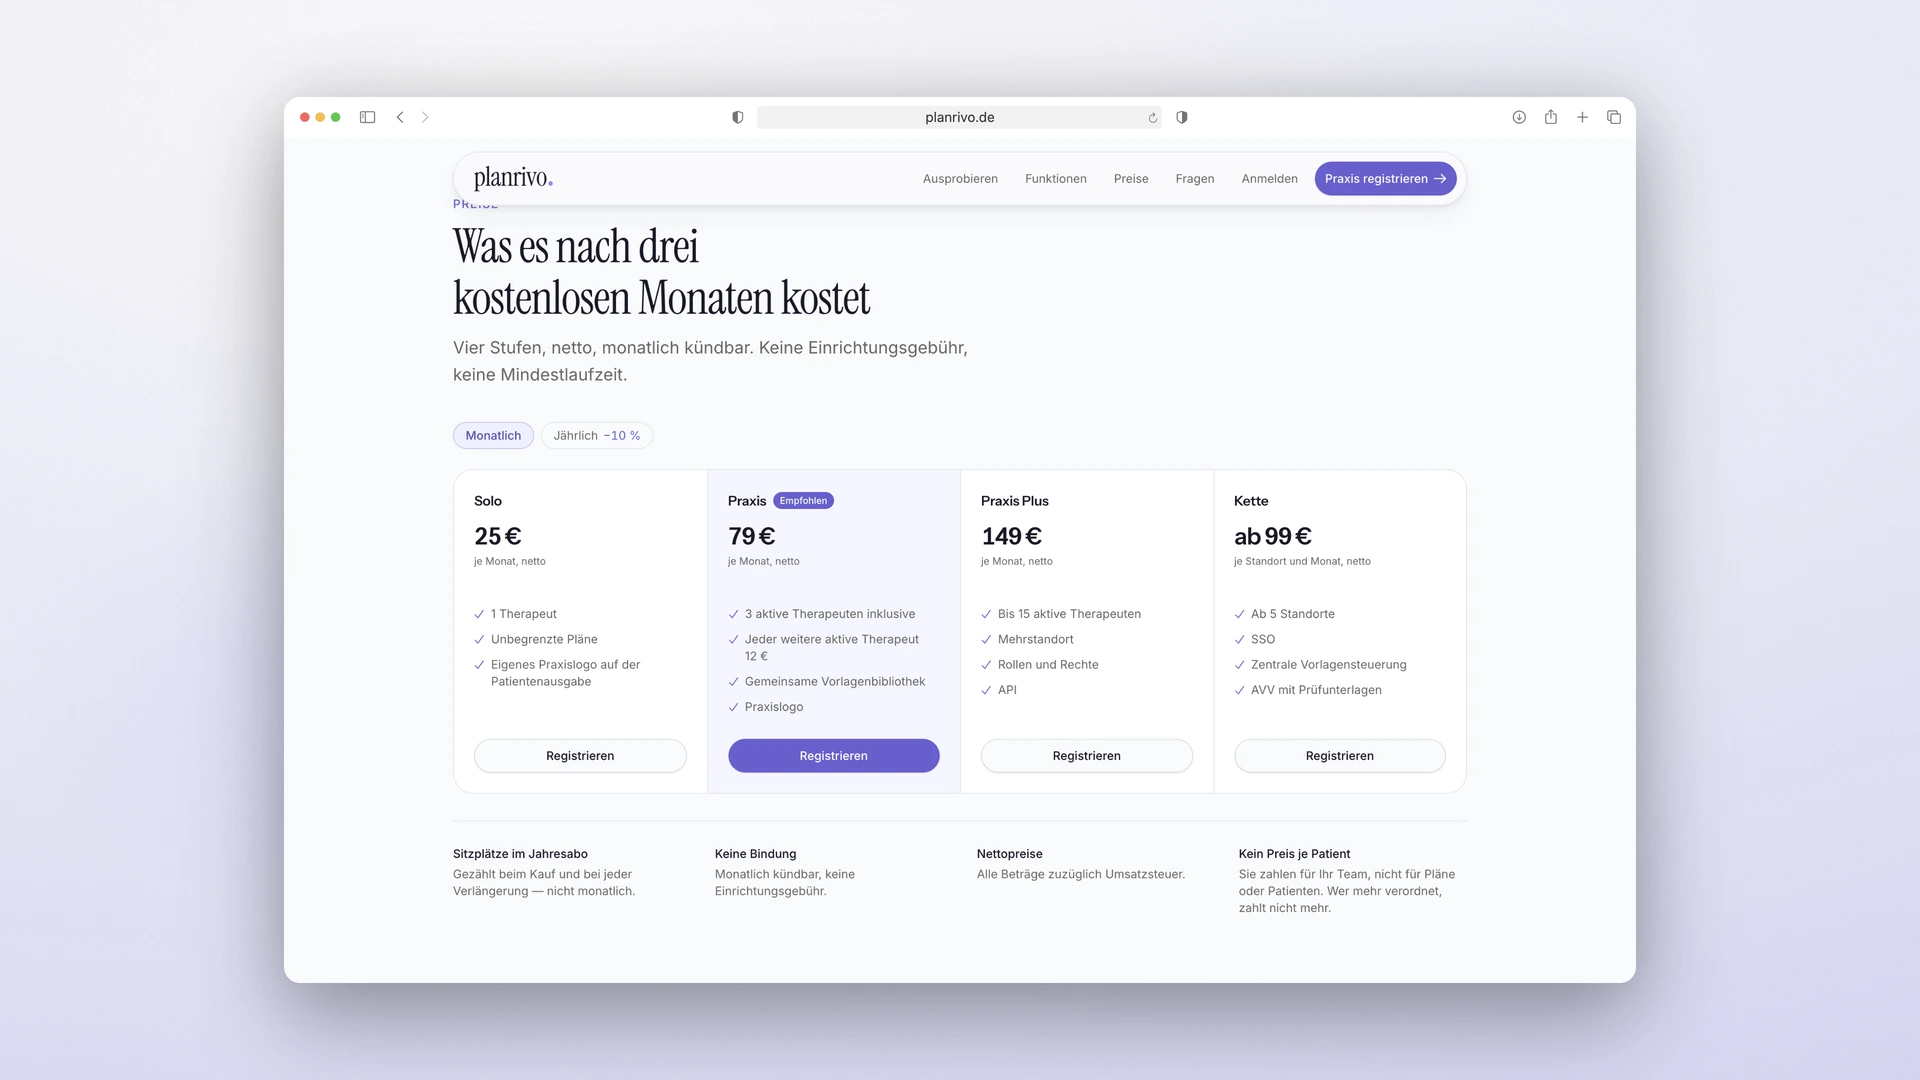
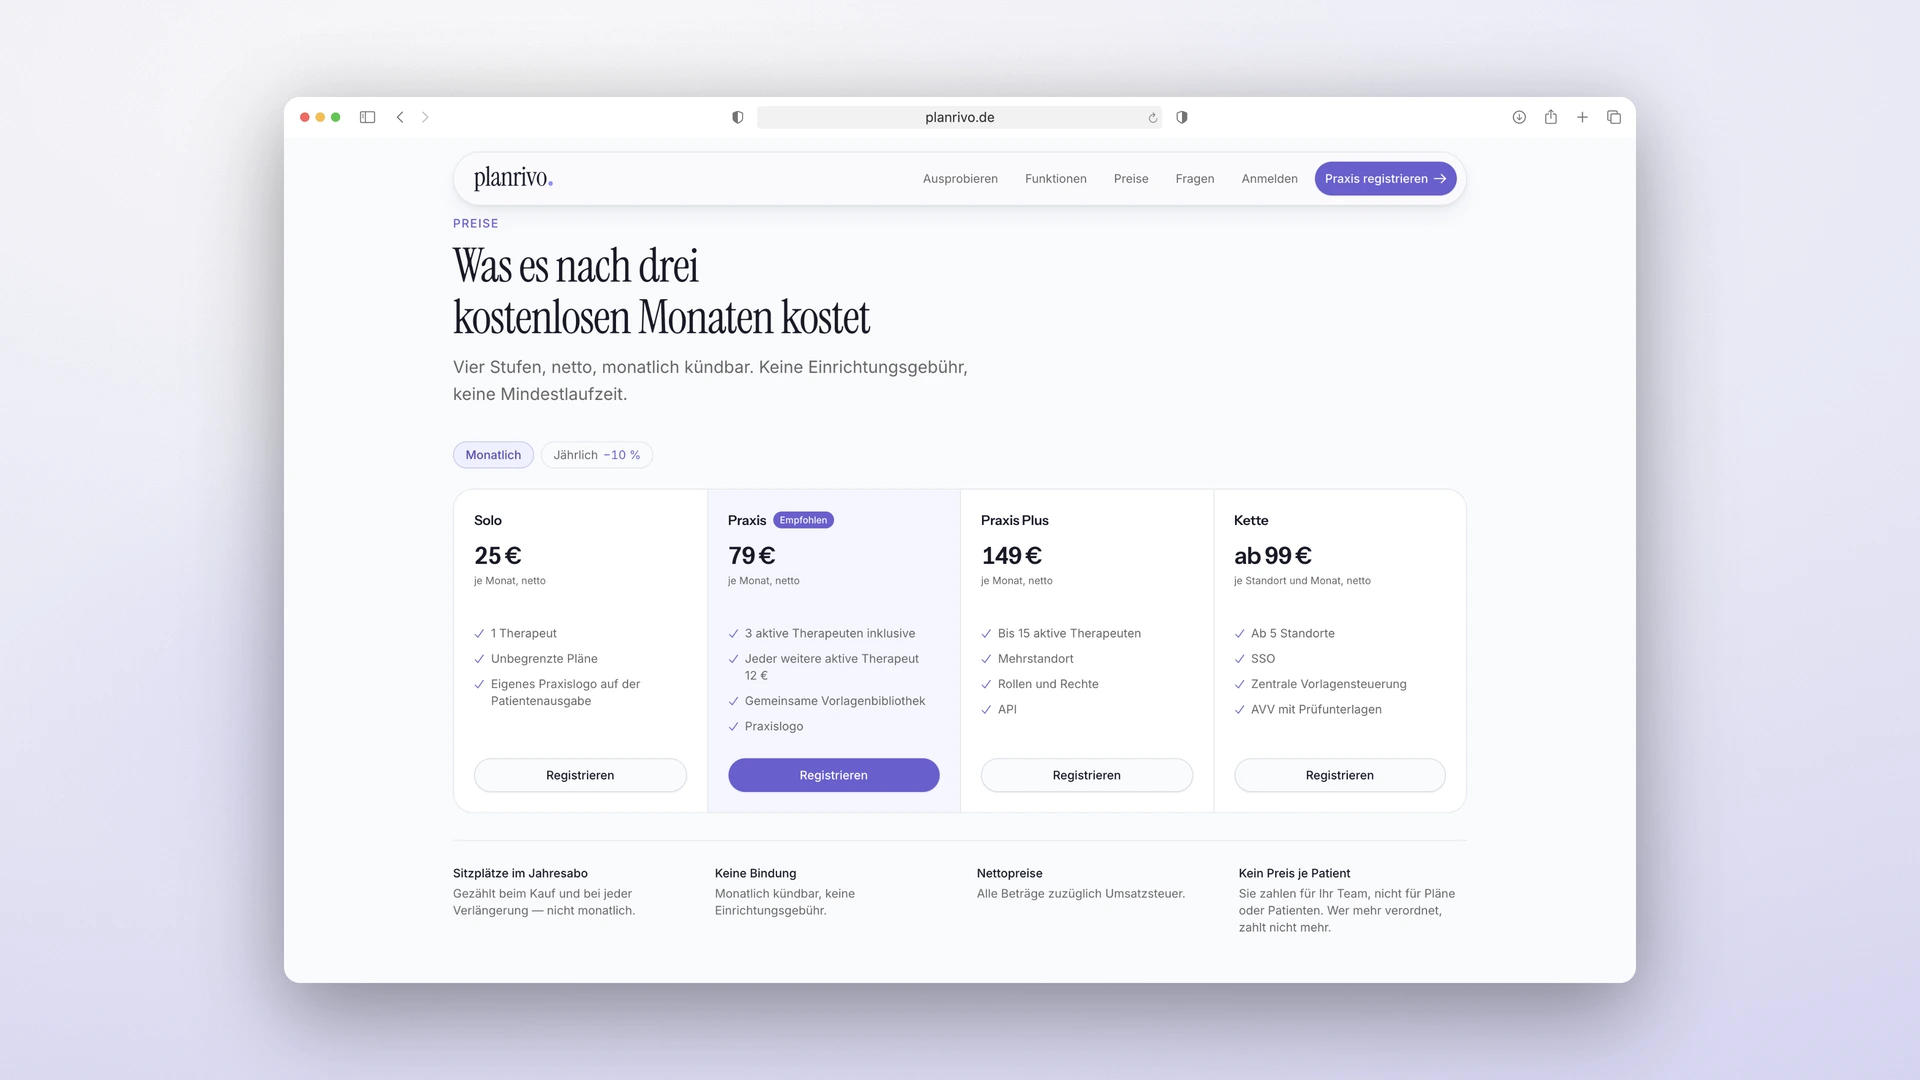
add planrivo features bento and recapture pricing

diff --git a/resources/content/projects/en/planrivo.md b/resources/content/projects/en/planrivo.md
@@ -94,6 +94,10 @@ media:
       alt: 'planrivo - Desktop Print View of a Plan as a Branded A4 Sheet with QR Code'
     - type: image
       aspectRatio: '16/9'
+      src: /img/portfolio/planrivo/planrivo_landscape_17.webp
+      alt: 'planrivo - Desktop Features Bento: Plan in Under a Minute, Muscle Map Filter, Revocable Access and Practice Templates'
+    - type: image
+      aspectRatio: '16/9'
       src: /img/portfolio/planrivo/planrivo_landscape_15.webp
       alt: 'planrivo - Desktop Pricing Section with Four Tiers after the Free Pilot Phase'
     - type: image
